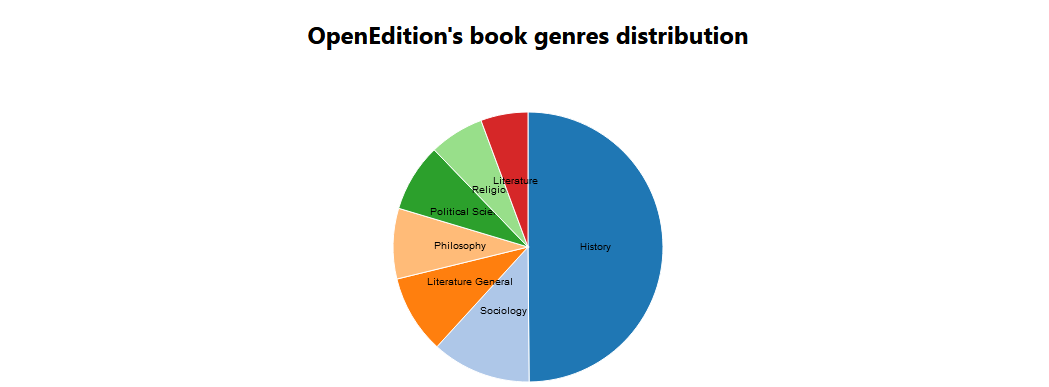
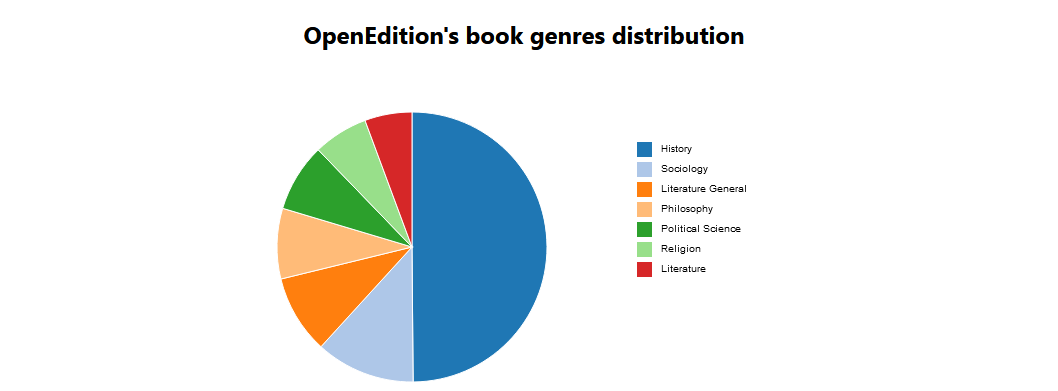
change viz and fix image

Changed region(s): [[0.244, 0.2791, 0.7016, 0.9922], [0.2745, 0.062, 0.7321, 0.124]]

diff --git a/d3sparql.js b/d3sparql.js
@@ -642,6 +642,7 @@ d3sparql.barchart = function(json, config) {
     }
     </style>
 */
+
 d3sparql.piechart = function(json, config) {
   config = config || {}
 
@@ -671,25 +672,62 @@ d3sparql.piechart = function(json, config) {
     .value(function(d) { return d[opts.size].value })
 
   var svg = d3sparql.select(opts.selector, "piechart").append("svg")
-    .attr("width", opts.width)
+    .attr("width", opts.width*1.5)
     .attr("height", opts.height)
-    .append("g")
-    .attr("transform", "translate(" + opts.width / 2 + "," + opts.height / 2 + ")")
 
-  var g = svg.selectAll(".arc")
+
+  var g = svg.append("g")
+    .attr("transform", "translate(" + opts.width / 2 + "," + opts.height / 2 + ")")
+    .attr("class", "arc")
+    .selectAll(".arc")
     .data(pie(data))
     .enter()
     .append("g")
-    .attr("class", "arc")
+    
   var slice = g.append("path")
     .attr("d", arc)
     .attr("fill", function(d, i) { return color(i) })
-  var text = g.append("text")
-    .attr("class", "label")
-    .attr("transform", function(d) { return "translate(" + arc.centroid(d) + ")" })
-    .attr("dy", ".35em")
-    .attr("text-anchor", "middle")
-    .text(function(d) { return d.data[opts.label].value })
+  // var text = g.append("text")
+  //   .attr("class", "label")
+  //   .attr("transform", function(d) { return "translate(" + arc.centroid(d) + ")" })
+  //   .attr("dy", ".35em")
+  //   .attr("text-anchor", "middle")
+  //   .text(function(d) { return d.data[opts.label].value })
+    
+  var temp = 50;//高度增量
+  var legend = svg.append("g")
+    // .attr("transform", "translate(" + (opts.width-10) + ",10 )")
+    .attr("class", "legendRect")
+    .selectAll(".legendRect")
+    .data(color)
+    .enter()
+    .append("rect")
+    .attr("x", function(d) { return opts.width; })
+    .attr("y", function(d) { temp = temp + 20;return temp; })
+    .attr("width", 15)
+    .attr("height", 15)
+    .style("fill", function(d,i) { return color(i); });
+      
+
+  
+
+    // 添加legend名称
+    temp = 60;
+    svg.append("g")
+        .selectAll(".legendText")
+        .data(pie(data))
+        .enter()
+        .append("text")
+        .attr("class", "legendText")
+        .attr("x", function(d) { return opts.width +20; })
+        .attr("y", function(d) { temp = temp + 20;return temp; })
+        .attr("dx", ".35em")
+        .attr("dy", 0)
+        // .attr("text-anchor", "middle")//默认左对齐，middle中对齐，end右对齐
+        .text(function(d) { return d.data[opts.label].value })
+      
+
+
 
   // default CSS/SVG
   slice.attr({
@@ -703,6 +741,7 @@ d3sparql.piechart = function(json, config) {
     "font-family": "sans-serif",
   })
 }
+
 
 /*
   Rendering sparql-results+json object into a scatter plot
